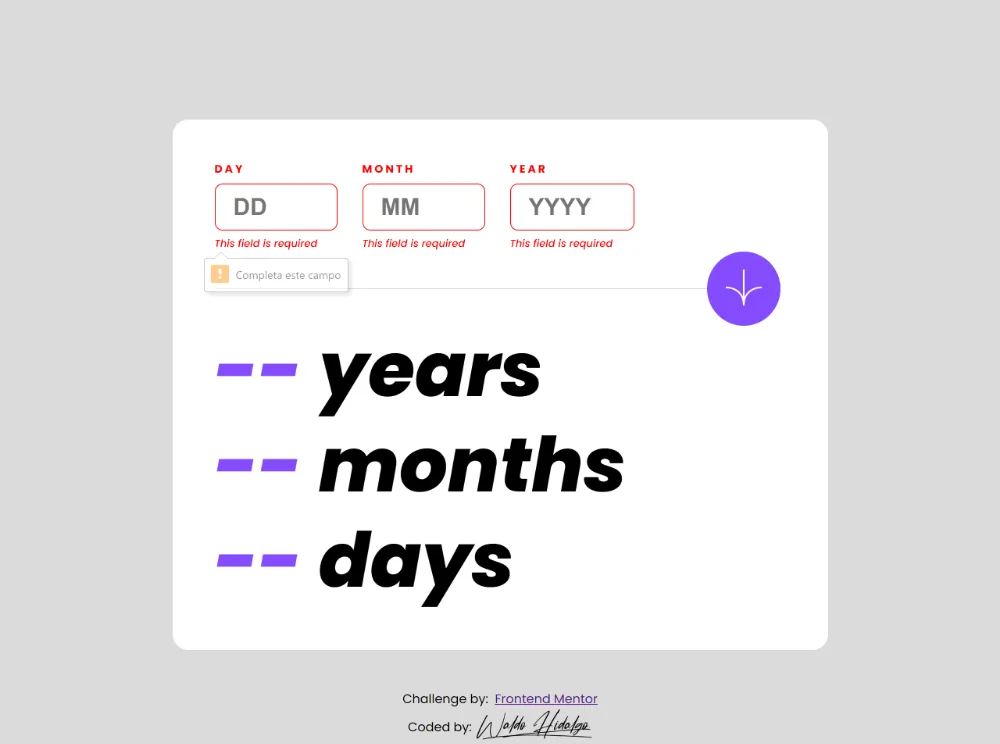
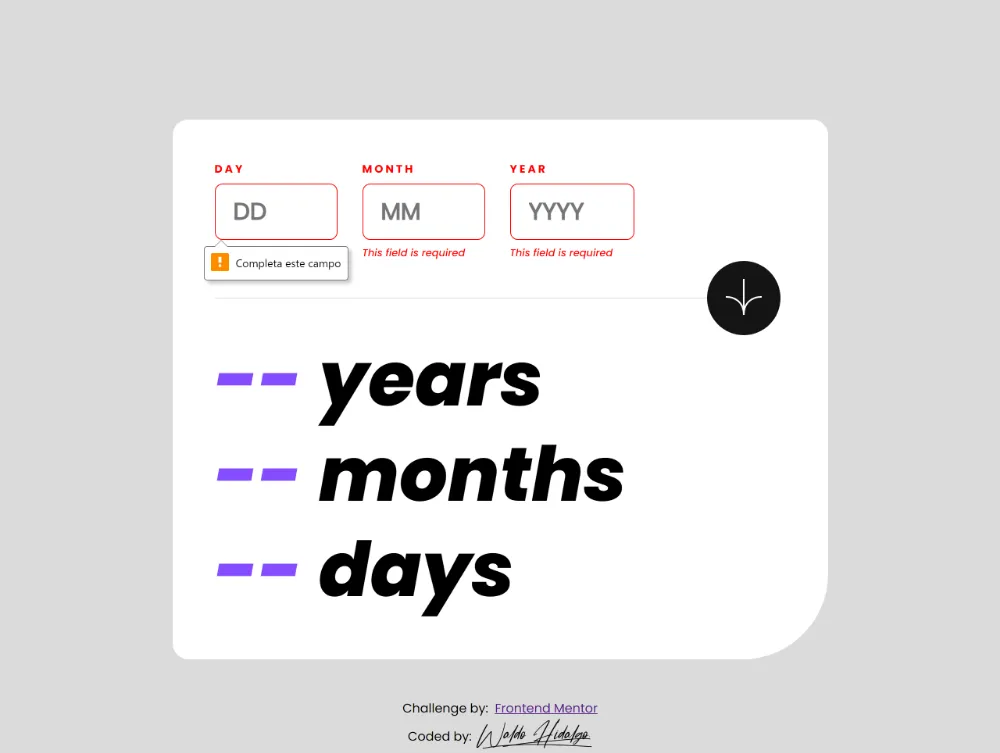
add border right bottom and update readme

diff --git a/src/app/globals.css b/src/app/globals.css
@@ -10,7 +10,7 @@
 }
 body {
   font-family: var(--font-poppins);
-  background-color: var(--color-light-grey);
+  background-color: var(--color-off-white);
   margin: 0;
 }
 * {
@@ -25,7 +25,10 @@ main {
   border-radius: 20px;
   padding-block: 45px;
   padding-inline: 24px;
+  border-bottom-right-radius: 110px;
+
   @media screen and (min-width: 910px) {
+    border-bottom-right-radius: 195px;
     width: 80%;
     max-width: 839px;
     padding-block: 50px;
